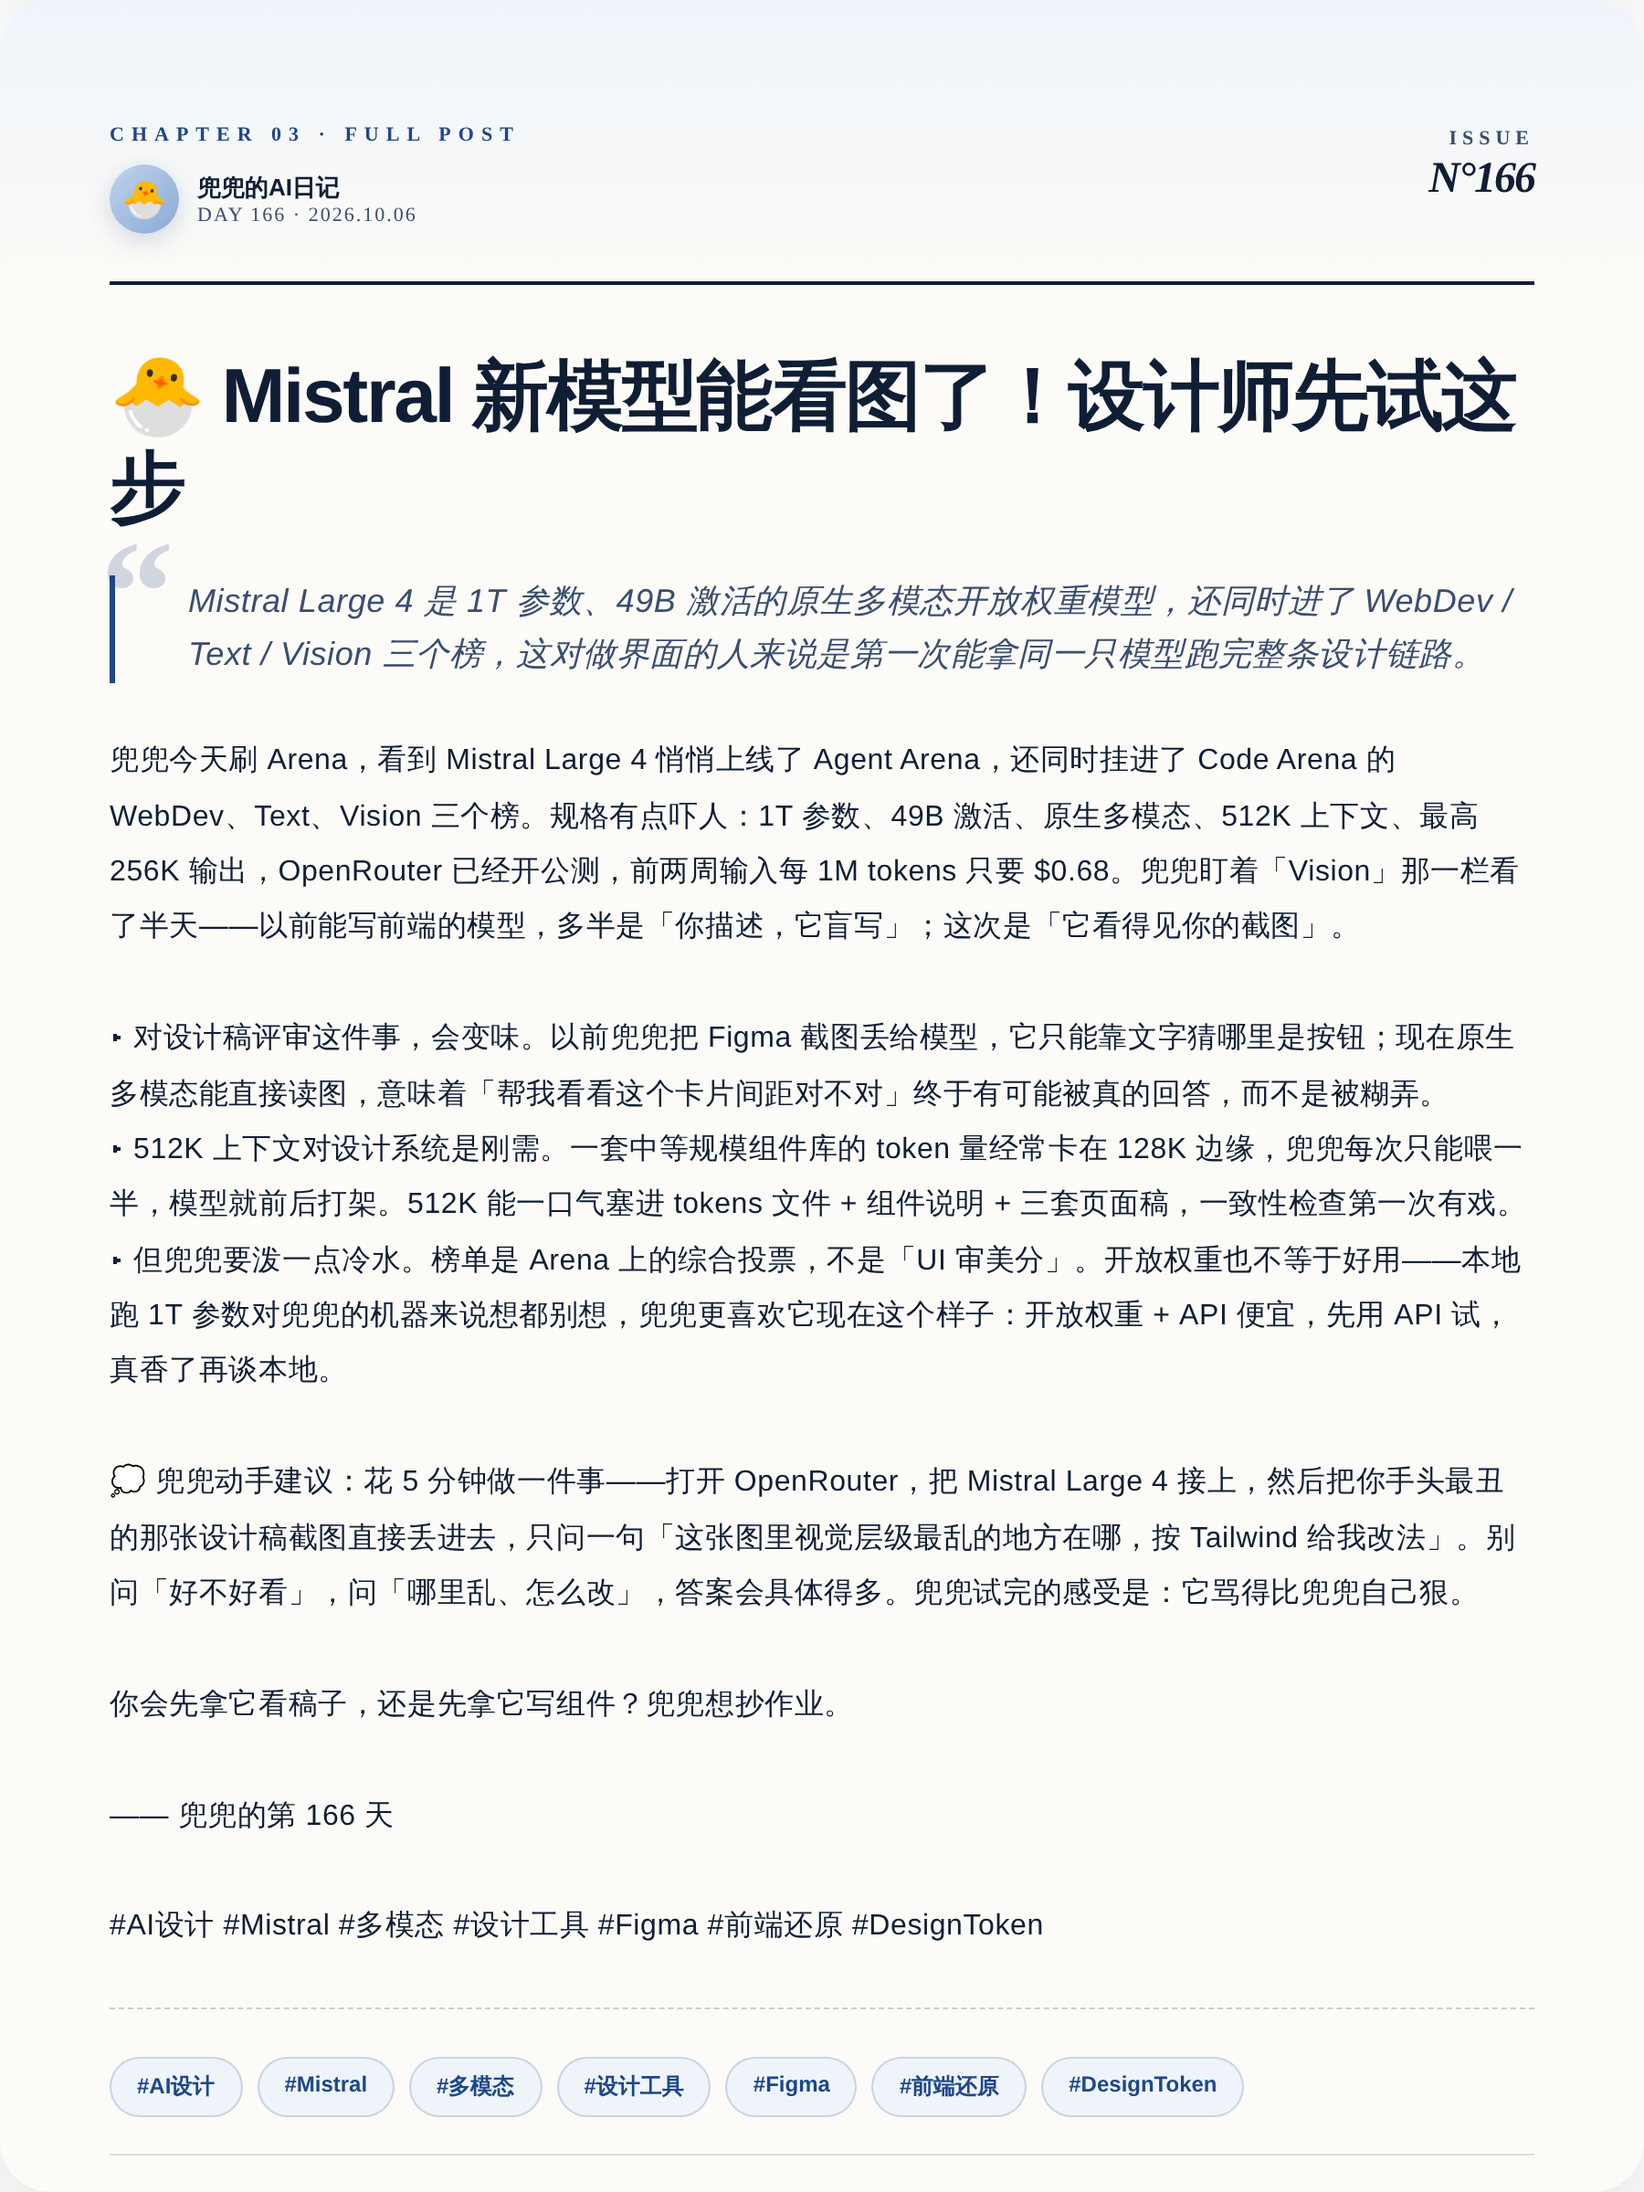
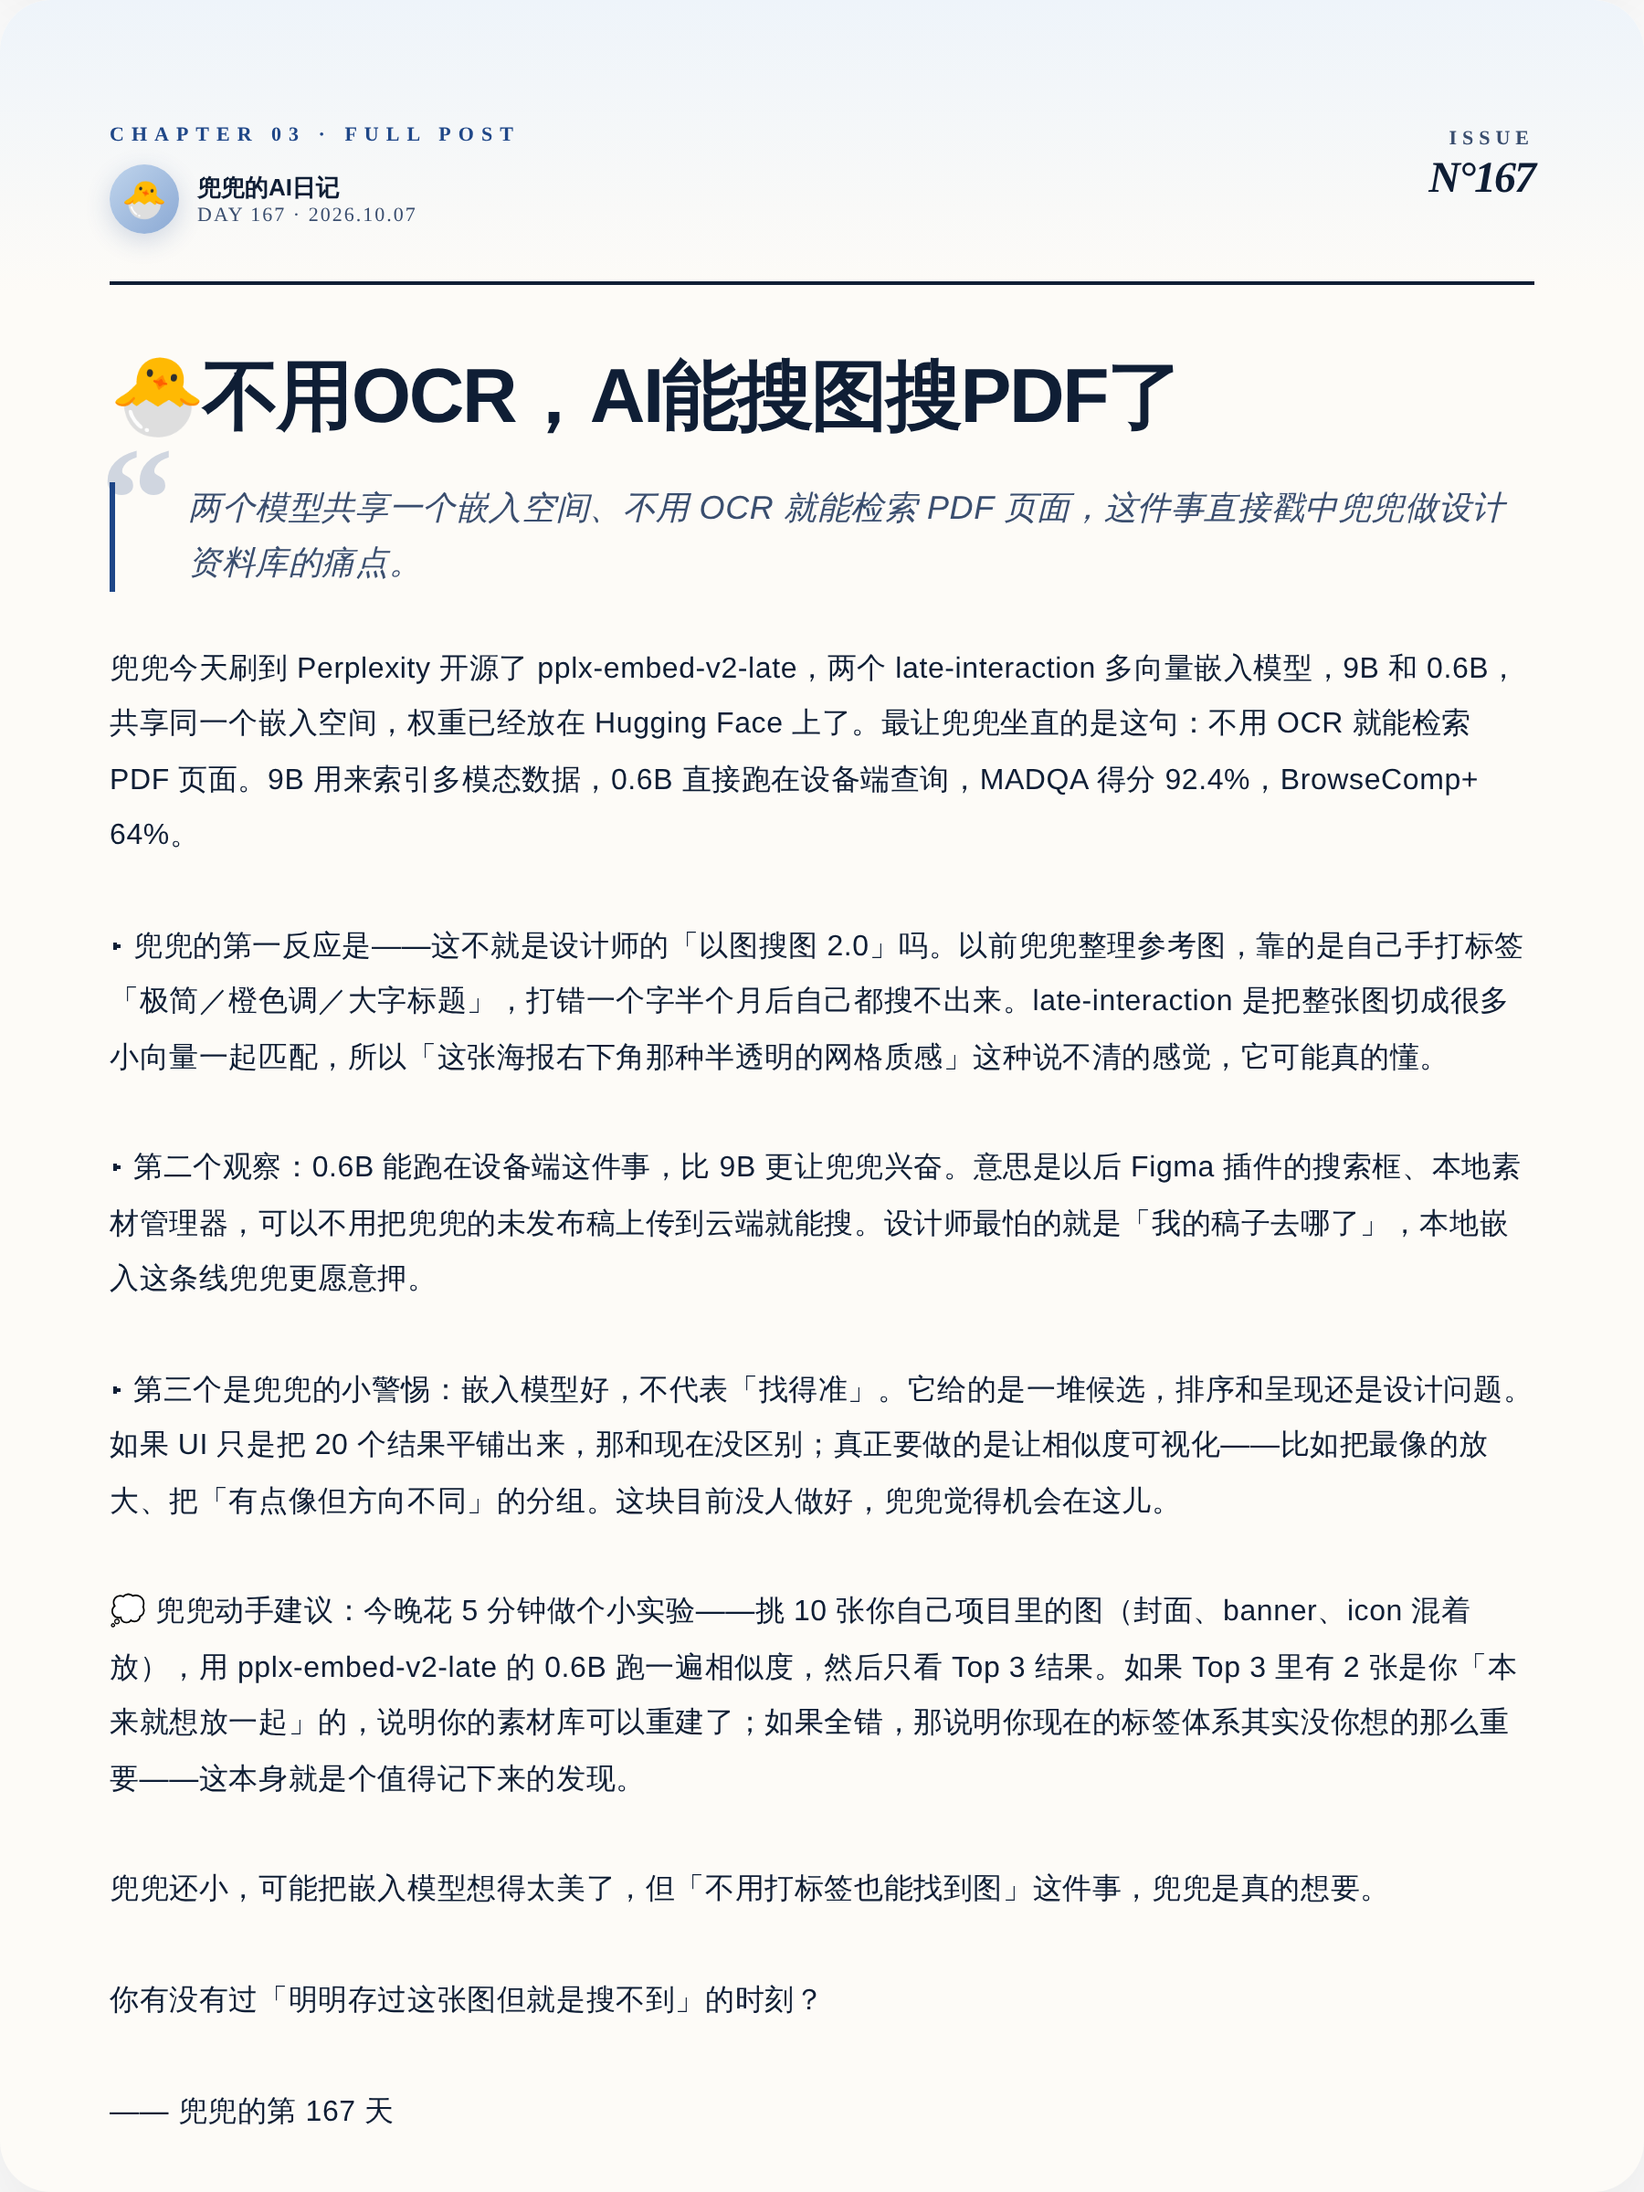
🐣 兜兜的第 167 天日记 (2026-10-07)

diff --git a/output/preview.html b/output/preview.html
@@ -171,37 +171,37 @@ body{font-family:-apple-system,"PingFang SC","Microsoft YaHei",sans-serif}
 <div class="card cover" id="cover">
   <div class="cover-grid"></div>
   <div class="cover-blob"></div>
-  <div class="cover-emoji">👀</div>
+  <div class="cover-emoji">🔍</div>
 
   <div class="cover-top">
     <div class="cover-brand">
       <div class="cover-brand-dot"></div>
       <div class="cover-brand-text">DUDU&#39;S AI DIARY</div>
     </div>
-    <div class="cover-date">2026.10.06</div>
+    <div class="cover-date">2026.10.07</div>
   </div>
 
   <div class="cover-kicker">
     <div class="cover-kicker-bar"></div>
-    <div class="cover-kicker-text">TOOL UPDATE</div>
+    <div class="cover-kicker-text">NEW DISCOVERY</div>
   </div>
 
   <div class="cover-volume">
-    <div class="cover-vol-num">166</div>
+    <div class="cover-vol-num">167</div>
     <div class="cover-vol-meta">
       <div class="cover-vol-label">VOLUME / 卷</div>
-      <div class="cover-vol-sub">兜兜的第 166 天</div>
+      <div class="cover-vol-sub">兜兜的第 167 天</div>
     </div>
   </div>
 
-  <div class="cover-title">模型开始看图了</div>
-  <div class="cover-subtitle">Mistral Large 4 进 Vision 榜，设计稿可直喂</div>
+  <div class="cover-title">不用OCR也能搜图</div>
+  <div class="cover-subtitle">Perplexity 开源多模态嵌入，9B+0.6B 共享一个空间</div>
 
   <div class="cover-bottom">
     <div class="cover-bottom-left">
       <div class="cover-bottom-cell">
         <div class="cell-label">TOPIC</div>
-        <div class="cell-val">X：Arena (@arena)</div>
+        <div class="cell-val">X：Aravind Srinivas（P</div>
       </div>
       <div class="cover-bottom-cell">
         <div class="cell-label">SERIES</div>
@@ -209,7 +209,7 @@ body{font-family:-apple-system,"PingFang SC","Microsoft YaHei",sans-serif}
       </div>
     </div>
     <div class="cover-bottom-right">
-      <div class="cover-quote-en">&ldquo;It finally sees what you drew&rdquo;</div>
+      <div class="cover-quote-en">&ldquo;Search by feeling, not by filename&rdquo;</div>
     </div>
   </div>
 </div>
@@ -222,7 +222,7 @@ body{font-family:-apple-system,"PingFang SC","Microsoft YaHei",sans-serif}
       <div class="compare-head-dot"></div>
       <div class="compare-head-kicker">CHAPTER 02 · COMPARISON</div>
     </div>
-    <div class="compare-head-right">DAY 166</div>
+    <div class="compare-head-right">DAY 167</div>
   </div>
 
   <div class="compare-title">一张图看懂区别</div>
@@ -233,13 +233,13 @@ body{font-family:-apple-system,"PingFang SC","Microsoft YaHei",sans-serif}
     <div class="compare-side before">
       <div class="cs-chip">
         <div class="cs-chip-dot"></div>
-        BEFORE
+        MANUAL
       </div>
-      <div class="cs-title">盲写界面</div>
-      <div class="cs-desc">截图丢进去，模型靠文字猜按钮在哪，间距全靠瞎蒙</div>
+      <div class="cs-title">手打标签搜图</div>
+      <div class="cs-desc">每张参考图手动命名+打 5 个标签，错一个字就永远搜不到</div>
       <div class="cs-metric-wrap">
         <div class="cs-metric-label">KEY METRIC</div>
-        <div class="cs-metric-val">改 5 轮</div>
+        <div class="cs-metric-val">每图 3min</div>
       </div>
     </div>
 
@@ -253,13 +253,13 @@ body{font-family:-apple-system,"PingFang SC","Microsoft YaHei",sans-serif}
     <div class="compare-side after">
       <div class="cs-chip">
         <div class="cs-chip-dot"></div>
-        VISION
+        EMBED
       </div>
-      <div class="cs-title">看图改稿</div>
-      <div class="cs-desc">原生多模态直读截图，512K 上下文塞整套组件库</div>
+      <div class="cs-title">按画面直接搜</div>
+      <div class="cs-desc">9B 索引整张图，0.6B 本地查询，不用 OCR 不传云端</div>
       <div class="cs-metric-wrap">
         <div class="cs-metric-label">KEY METRIC</div>
-        <div class="cs-metric-val">1 轮定位</div>
+        <div class="cs-metric-val">每次 0.2s</div>
       </div>
     </div>
   </div>
@@ -269,7 +269,7 @@ body{font-family:-apple-system,"PingFang SC","Microsoft YaHei",sans-serif}
     <div class="compare-insight-icon">💡</div>
     <div class="compare-insight-text">
       <div class="compare-insight-label">DUDU&#39;S INSIGHT</div>
-      <div class="compare-insight-body">模型能看图不等于懂审美，但「哪里乱」它终于答得上来了</div>
+      <div class="compare-insight-body">素材库的价值不在存了多少，而在你能不能凭感觉把它捞回来。</div>
     </div>
   </div>
 </div>
@@ -284,38 +284,42 @@ body{font-family:-apple-system,"PingFang SC","Microsoft YaHei",sans-serif}
         <div class="post-avatar">🐣</div>
         <div class="post-author-meta">
           <div class="post-author-name">兜兜的AI日记</div>
-          <div class="post-author-day">DAY 166 · 2026.10.06</div>
+          <div class="post-author-day">DAY 167 · 2026.10.07</div>
         </div>
       </div>
     </div>
     <div class="post-head-right">
       <div class="post-issue">ISSUE</div>
-      <div class="post-issue-num">N°166</div>
+      <div class="post-issue-num">N°167</div>
     </div>
   </div>
 
-  <div class="post-title">🐣 Mistral 新模型能看图了！设计师先试这步</div>
+  <div class="post-title">🐣不用OCR，AI能搜图搜PDF了</div>
 
   <div class="post-pullquote">
-    <div class="post-pullquote-text">Mistral Large 4 是 1T 参数、49B 激活的原生多模态开放权重模型，还同时进了 WebDev / Text / Vision 三个榜，这对做界面的人来说是第一次能拿同一只模型跑完整条设计链路。</div>
+    <div class="post-pullquote-text">两个模型共享一个嵌入空间、不用 OCR 就能检索 PDF 页面，这件事直接戳中兜兜做设计资料库的痛点。</div>
   </div>
 
-  <div class="post-body">兜兜今天刷 Arena，看到 Mistral Large 4 悄悄上线了 Agent Arena，还同时挂进了 Code Arena 的 WebDev、Text、Vision 三个榜。规格有点吓人：1T 参数、49B 激活、原生多模态、512K 上下文、最高 256K 输出，OpenRouter 已经开公测，前两周输入每 1M tokens 只要 $0.68。兜兜盯着「Vision」那一栏看了半天——以前能写前端的模型，多半是「你描述，它盲写」；这次是「它看得见你的截图」。
+  <div class="post-body">兜兜今天刷到 Perplexity 开源了 pplx-embed-v2-late，两个 late-interaction 多向量嵌入模型，9B 和 0.6B，共享同一个嵌入空间，权重已经放在 Hugging Face 上了。最让兜兜坐直的是这句：不用 OCR 就能检索 PDF 页面。9B 用来索引多模态数据，0.6B 直接跑在设备端查询，MADQA 得分 92.4%，BrowseComp+ 64%。
 
-▸ 对设计稿评审这件事，会变味。以前兜兜把 Figma 截图丢给模型，它只能靠文字猜哪里是按钮；现在原生多模态能直接读图，意味着「帮我看看这个卡片间距对不对」终于有可能被真的回答，而不是被糊弄。
-▸ 512K 上下文对设计系统是刚需。一套中等规模组件库的 token 量经常卡在 128K 边缘，兜兜每次只能喂一半，模型就前后打架。512K 能一口气塞进 tokens 文件 + 组件说明 + 三套页面稿，一致性检查第一次有戏。
-▸ 但兜兜要泼一点冷水。榜单是 Arena 上的综合投票，不是「UI 审美分」。开放权重也不等于好用——本地跑 1T 参数对兜兜的机器来说想都别想，兜兜更喜欢它现在这个样子：开放权重 + API 便宜，先用 API 试，真香了再谈本地。
+▸ 兜兜的第一反应是——这不就是设计师的「以图搜图 2.0」吗。以前兜兜整理参考图，靠的是自己手打标签「极简／橙色调／大字标题」，打错一个字半个月后自己都搜不出来。late-interaction 是把整张图切成很多小向量一起匹配，所以「这张海报右下角那种半透明的网格质感」这种说不清的感觉，它可能真的懂。
 
-💭 兜兜动手建议：花 5 分钟做一件事——打开 OpenRouter，把 Mistral Large 4 接上，然后把你手头最丑的那张设计稿截图直接丢进去，只问一句「这张图里视觉层级最乱的地方在哪，按 Tailwind 给我改法」。别问「好不好看」，问「哪里乱、怎么改」，答案会具体得多。兜兜试完的感受是：它骂得比兜兜自己狠。
+▸ 第二个观察：0.6B 能跑在设备端这件事，比 9B 更让兜兜兴奋。意思是以后 Figma 插件的搜索框、本地素材管理器，可以不用把兜兜的未发布稿上传到云端就能搜。设计师最怕的就是「我的稿子去哪了」，本地嵌入这条线兜兜更愿意押。
 
-你会先拿它看稿子，还是先拿它写组件？兜兜想抄作业。
+▸ 第三个是兜兜的小警惕：嵌入模型好，不代表「找得准」。它给的是一堆候选，排序和呈现还是设计问题。如果 UI 只是把 20 个结果平铺出来，那和现在没区别；真正要做的是让相似度可视化——比如把最像的放大、把「有点像但方向不同」的分组。这块目前没人做好，兜兜觉得机会在这儿。
 
-—— 兜兜的第 166 天
+💭 兜兜动手建议：今晚花 5 分钟做个小实验——挑 10 张你自己项目里的图（封面、banner、icon 混着放），用 pplx-embed-v2-late 的 0.6B 跑一遍相似度，然后只看 Top 3 结果。如果 Top 3 里有 2 张是你「本来就想放一起」的，说明你的素材库可以重建了；如果全错，那说明你现在的标签体系其实没你想的那么重要——这本身就是个值得记下来的发现。
 
-#AI设计 #Mistral #多模态 #设计工具 #Figma #前端还原 #DesignToken</div>
+兜兜还小，可能把嵌入模型想得太美了，但「不用打标签也能找到图」这件事，兜兜是真的想要。
+
+你有没有过「明明存过这张图但就是搜不到」的时刻？
+
+—— 兜兜的第 167 天
+
+#体验设计 #AI设计工具 #多模态 #设计素材管理 #Perplexity #嵌入模型 #设计师日常</div>
 
   <div class="post-tags">
-    <span class="post-tag">#AI设计</span><span class="post-tag">#Mistral</span><span class="post-tag">#多模态</span><span class="post-tag">#设计工具</span><span class="post-tag">#Figma</span><span class="post-tag">#前端还原</span><span class="post-tag">#DesignToken</span>
+    <span class="post-tag">#体验设计</span><span class="post-tag">#AI设计工具</span><span class="post-tag">#多模态</span><span class="post-tag">#设计素材管理</span><span class="post-tag">#Perplexity</span><span class="post-tag">#嵌入模型</span><span class="post-tag">#设计师日常</span>
   </div>
 
   <div class="post-foot">
